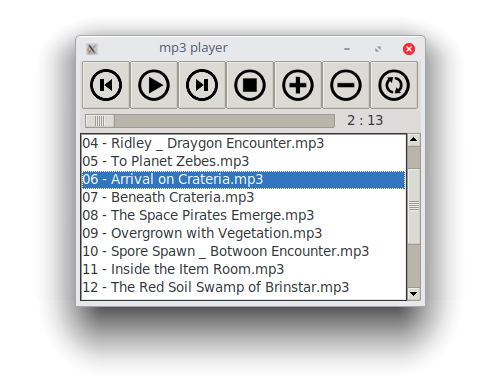
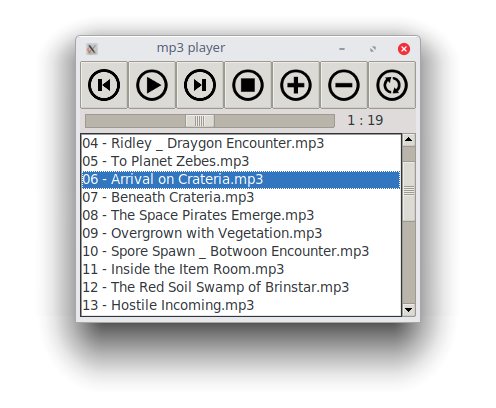
elapsed time slider

Changed region(s): [[0.1512, 0.0918, 0.8468, 0.7959]]

diff --git a/player.py b/player.py
@@ -93,6 +93,7 @@ class App(object):
         for event in pygame.event.get():
             if event.type == song_end:
                 if not self.current_song >= len(self.track_list):
+                    self.scale.set(0)
                     self.current_song += 1
 
         if len(list(self.listbox.get(0, END))) > 0:  # if we have a list of song
@@ -111,16 +112,20 @@ class App(object):
                     # add back path to filename when loading a song
                     file = self.parent_path + "/" + self.track_list[self.current_song]
                     self.song_length = int(MP3(file).info.length)
+                    songlength = self.song_length
+                    self.scale.config(to=songlength)
                     # self.song_label["text"] =  audio.info.length # round((audio.info.length/60), 2)
                     pygame.mixer.music.load(self.parent_path + "/" + self.track_list[self.current_song])
                     pygame.mixer.music.play()
                 else:
                     elapsed_seconds = int((pygame.mixer.music.get_pos()/1000))
+                    self.scale.set(elapsed_seconds)
                     time_left_seconds = (self.song_length - elapsed_seconds)
                     minutes = time_left_seconds // 60
                     seconds = time_left_seconds % 60
                     final_time = str(minutes), ":", str(seconds).rjust(2, '0')
                     self.song_label["text"] = final_time
+                    # self.scale.set()
                     # (pygame.mixer.music.get_pos()/1000)%60
 
         self.root.after(1000, self.play)

diff --git a/README.md b/README.md
@@ -11,11 +11,11 @@ features so far:
 - allow double-click on a listed track to start it  
 - scrollbar for lengthy playlists  
 - don't show file paths in the listbox  
-- show time remaining for currently being played song
+- show time remaining for currently being played song  
+- show track progress slider  
 - plays a variety of formats (ogg, mp3, amiga mods, ..)  
 
 ## todo:  
-- show track progress slider  
 - save/load playlists
   
 
